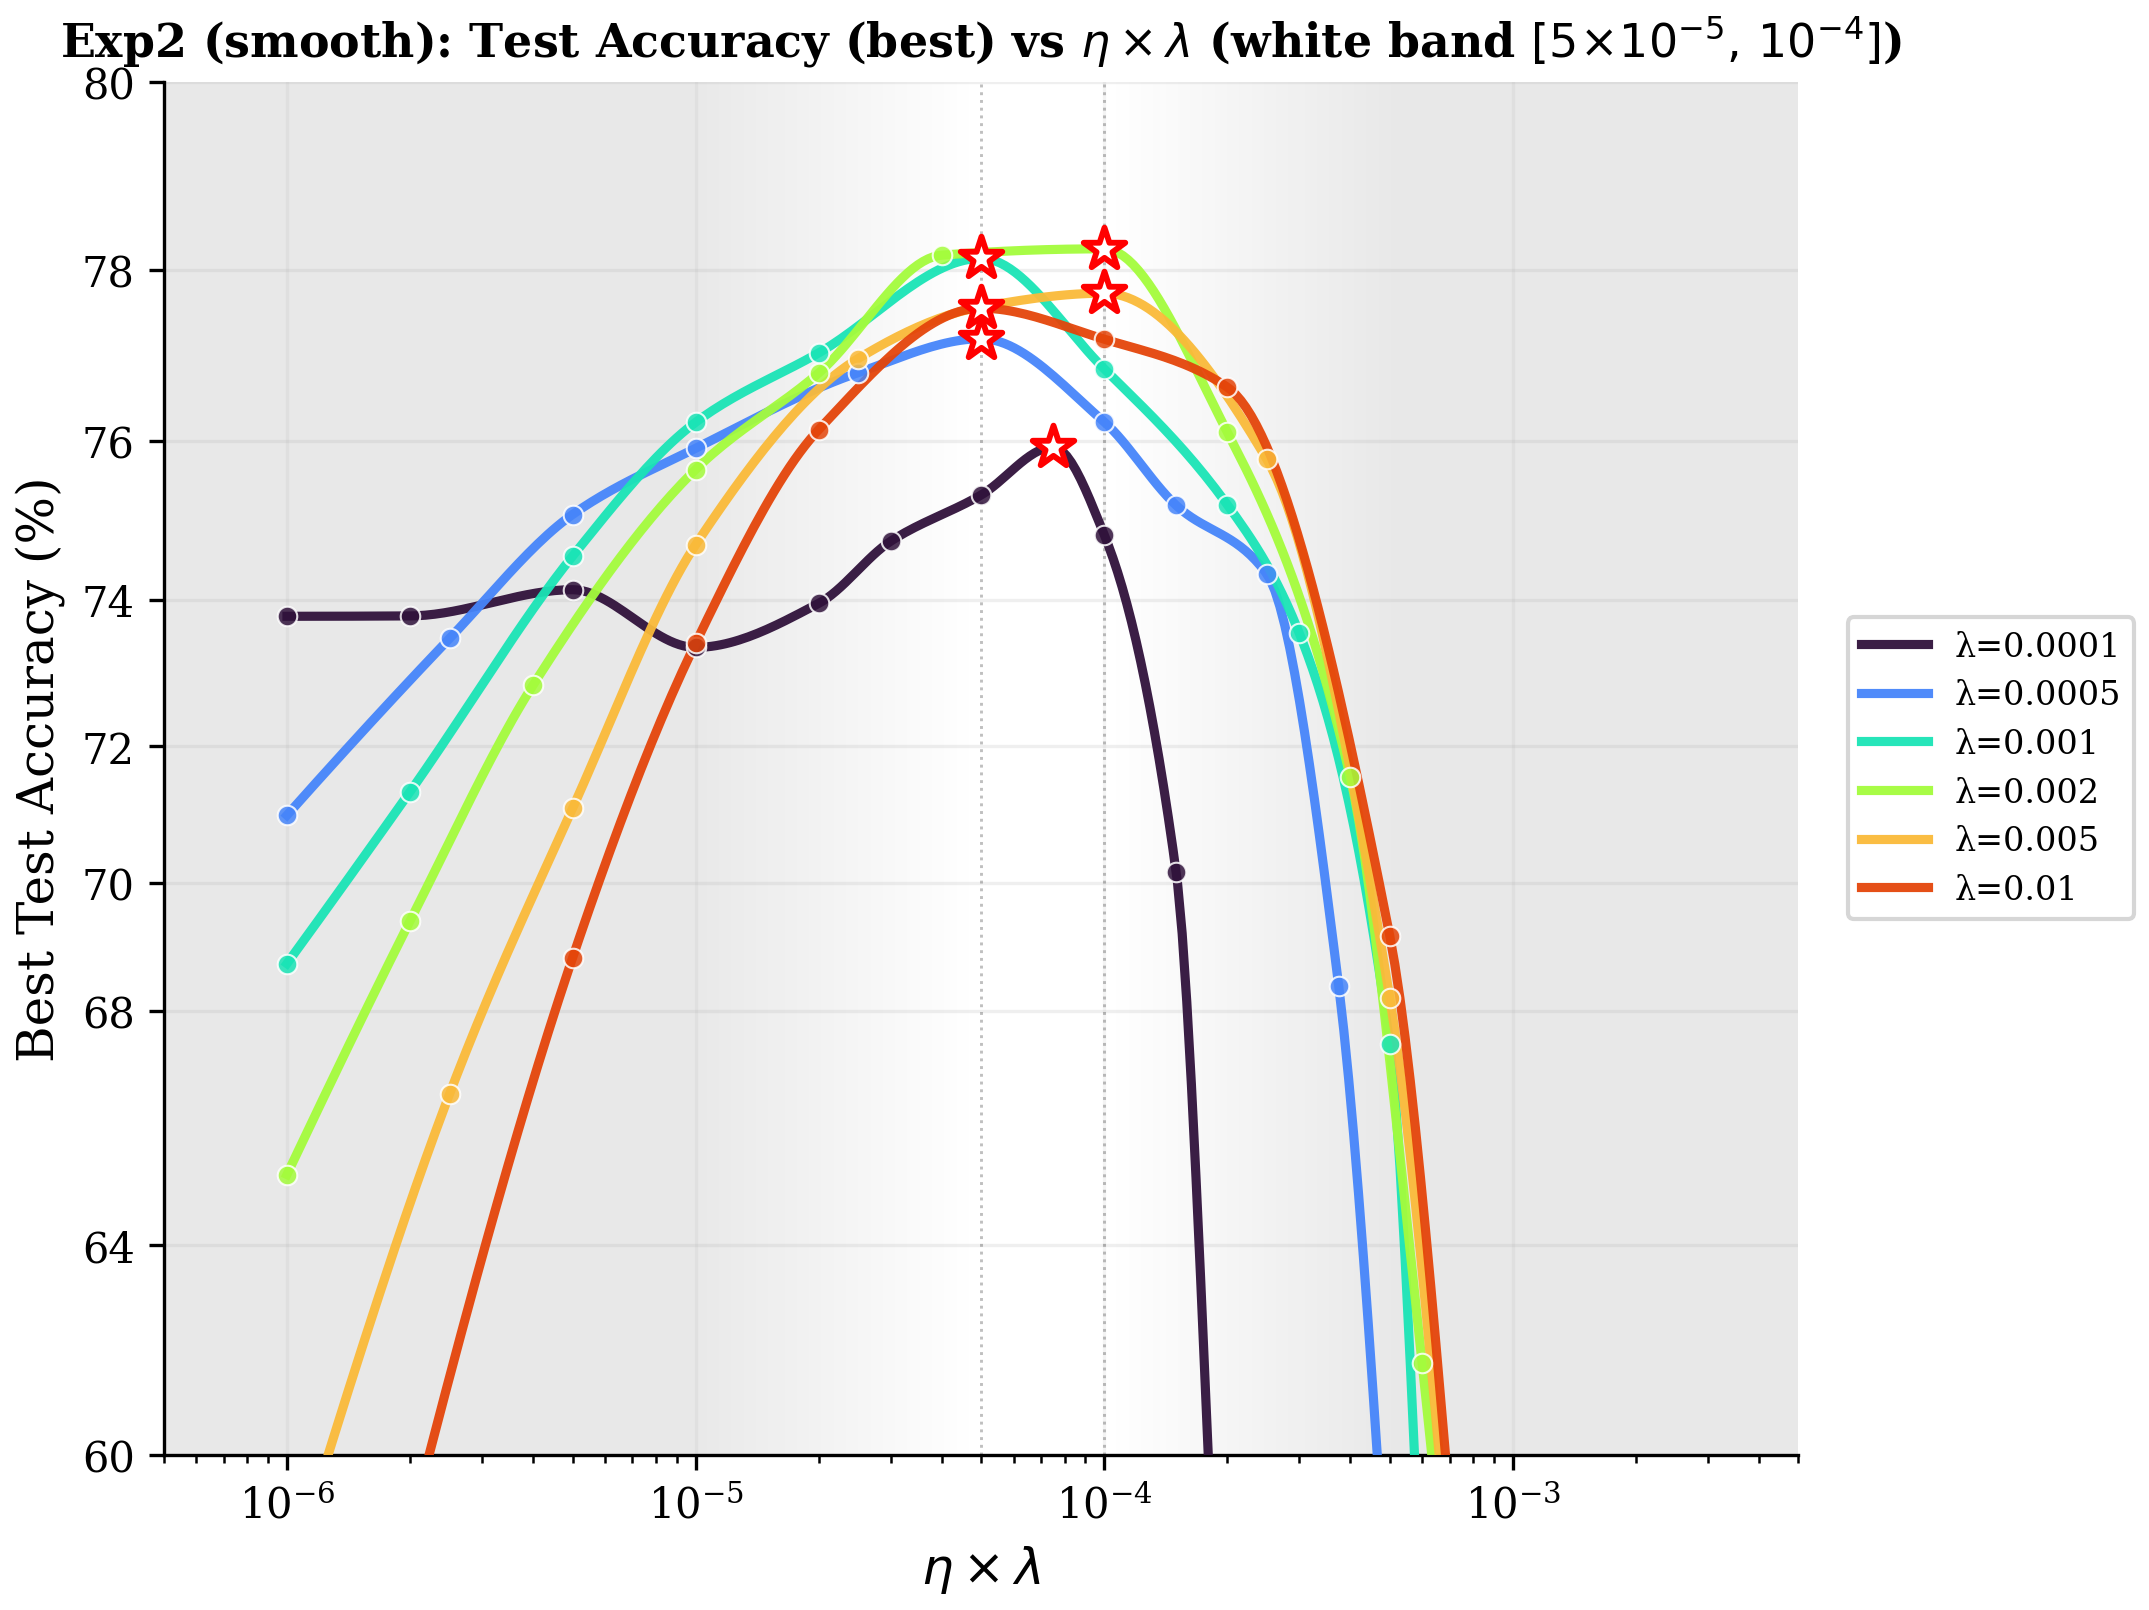
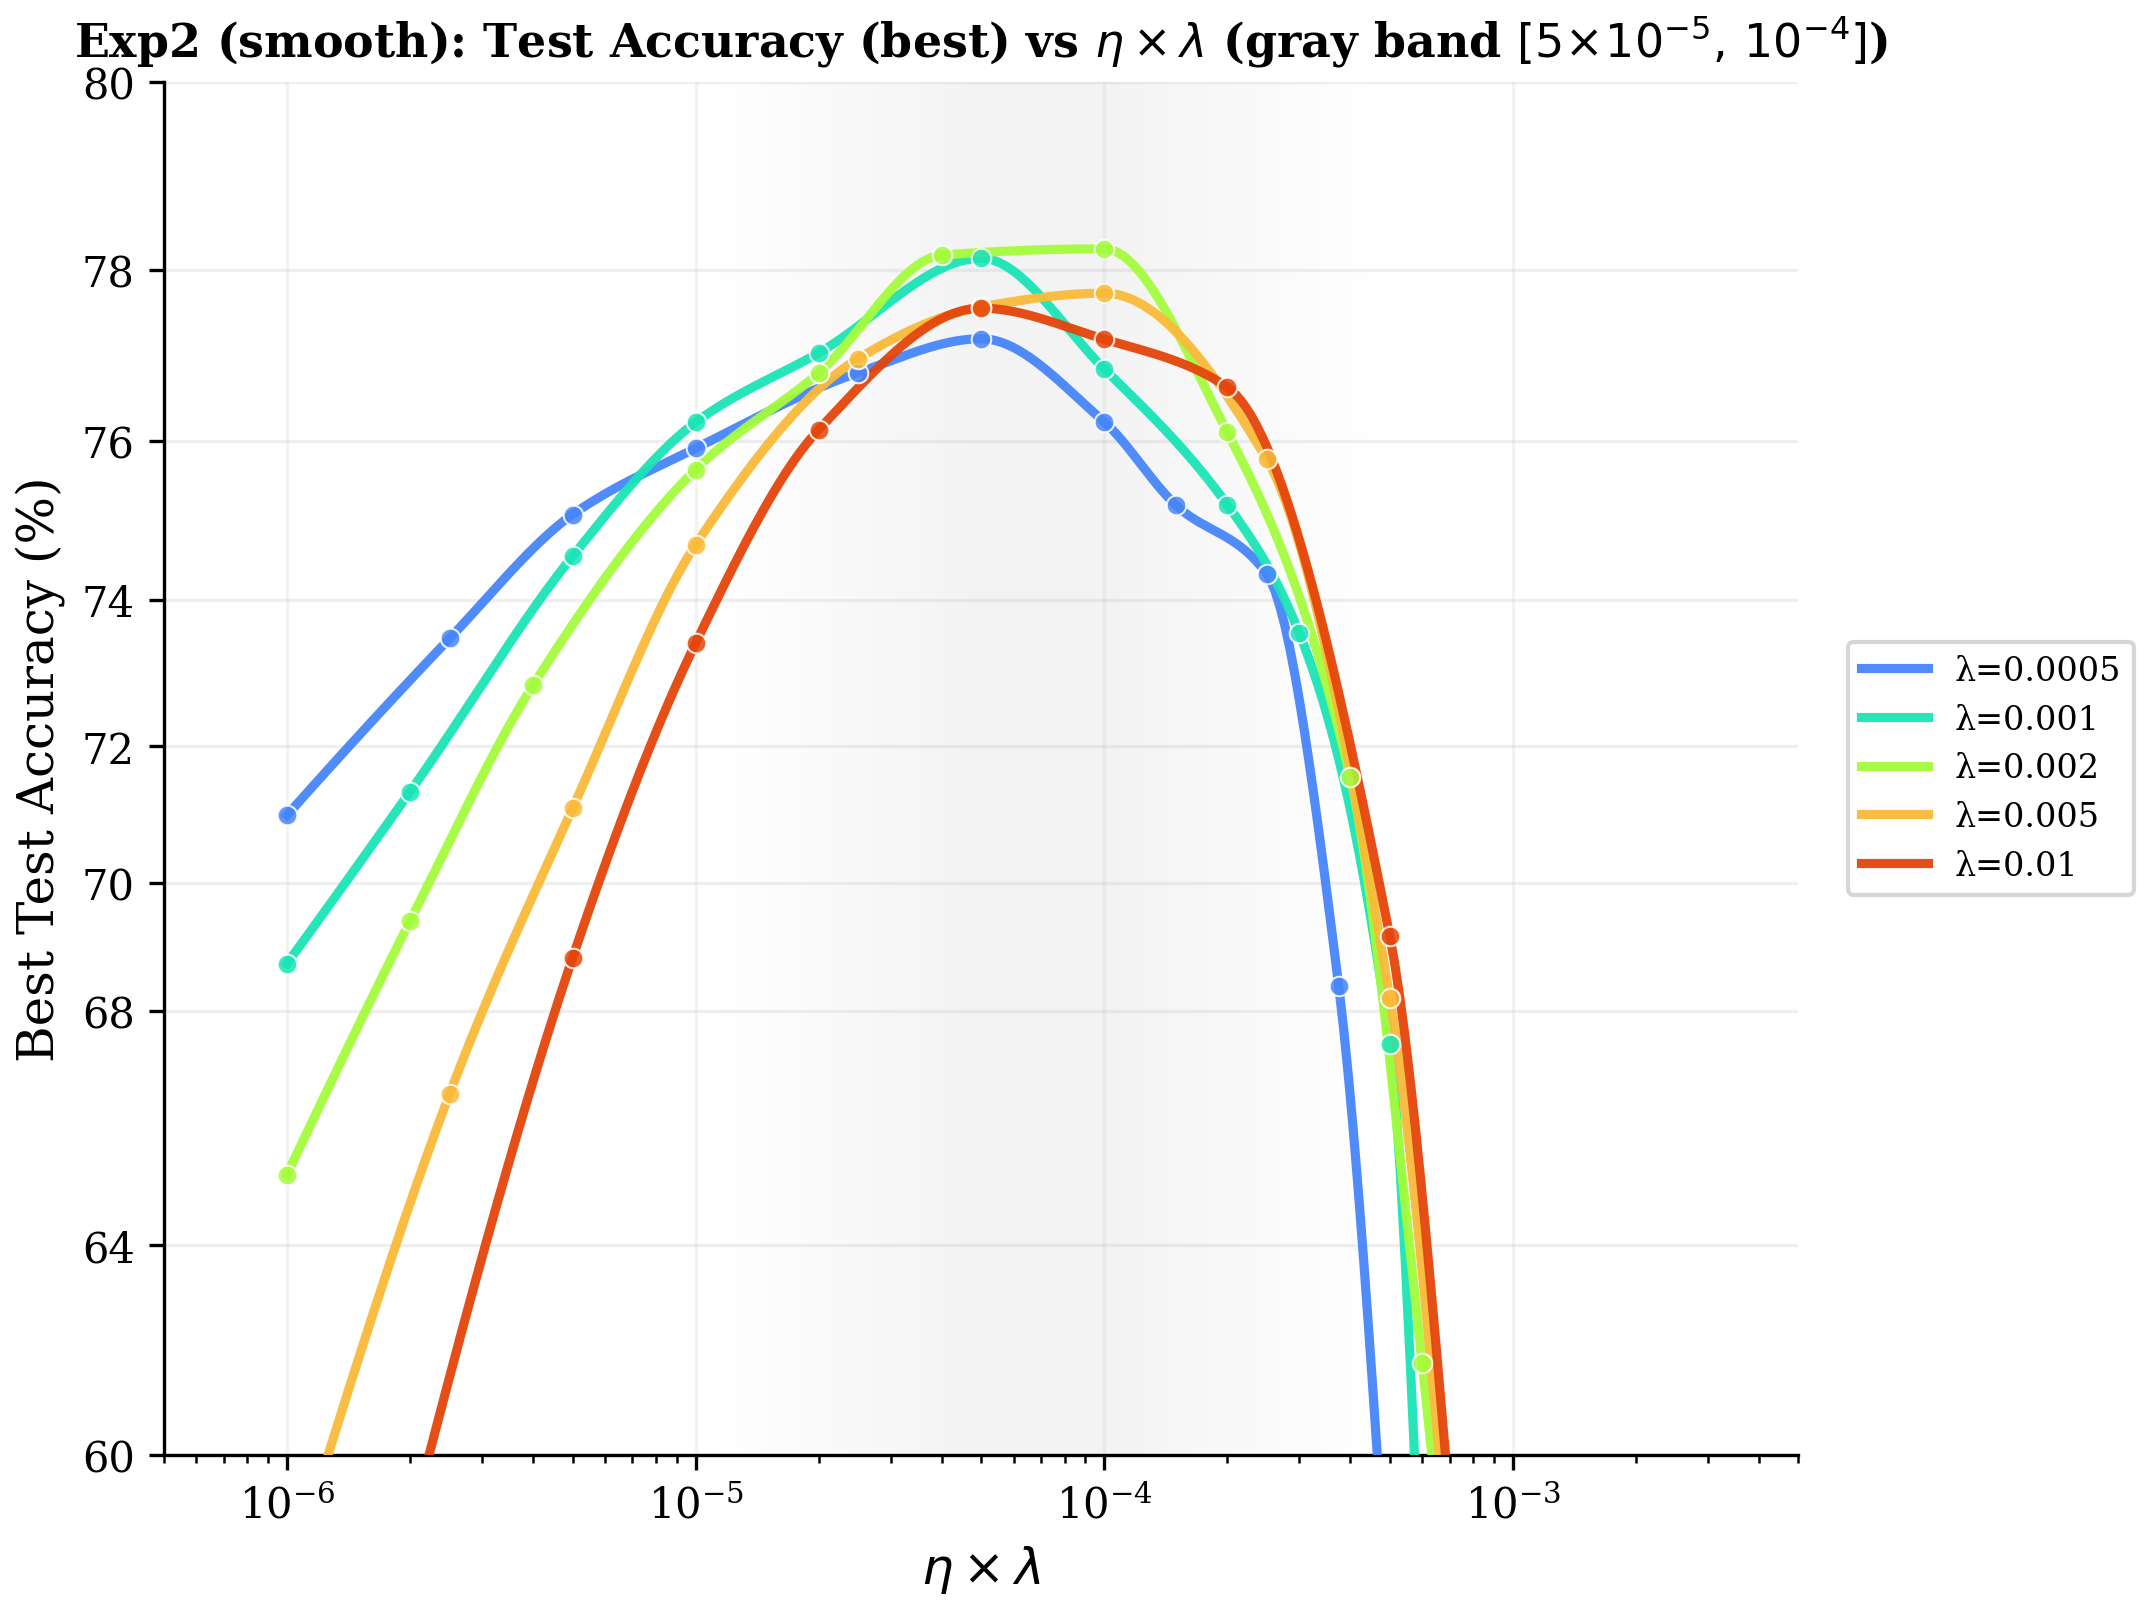
rebuttal: cleaner smoothed best-acc plot (white-gray-white, 5 curves, no stars)
Inverts the gradient background to white-gray-white so the optimum
band is shown as a subtle gray highlight rather than a high-contrast
peak (lighter gray_alpha=0.05). Drops lambda=0.0001 in addition to
lambda=0.05 to keep only the 5 main "well-behaved" curves
(5e-4 ... 1e-2). Removes the per-curve red stars at the maxima for a
cleaner look, exposed via show_stars / band_style kwargs.

diff --git a/rebuttal/generate_figures.py b/rebuttal/generate_figures.py
@@ -461,9 +461,11 @@ def plot_exp2_focused_smooth(ext_dfs,
                              data_lo=1e-6, data_hi=1e-3,
                              view_lo=5e-7, view_hi=5e-3,
                              ylim=(60, 80),
-                             exclude_wds=(5e-2,),
+                             exclude_wds=(5e-2, 1e-4),
                              white_lo=5e-5, white_hi=1e-4,
-                             gray_alpha=0.09, smooth_n=240):
+                             gray_alpha=0.05, smooth_n=240,
+                             band_style='middle_gray',
+                             show_stars=False):
     """Smooth, "publication-style" version of the best-acc focused plot.
 
     - Drops the requested λ values (default: 0.05).
@@ -499,7 +501,10 @@ def plot_exp2_focused_smooth(ext_dfs,
     log_grid = np.linspace(log_lo, log_hi, nx)
     dist = np.maximum(np.abs(log_grid - log_center) - half_white, 0.0)
     intensity = np.clip(1.0 - dist / fade_decade, 0.0, 1.0)
-    gray_strength = (1.0 - intensity) * gray_alpha
+    if band_style == 'middle_gray':
+        gray_strength = intensity * gray_alpha
+    else:
+        gray_strength = (1.0 - intensity) * gray_alpha
     xs_edge = np.power(10.0, np.concatenate([
         log_grid - 0.5 * (log_grid[1] - log_grid[0]),
         log_grid[-1:] + 0.5 * (log_grid[1] - log_grid[0]),
@@ -540,14 +545,11 @@ def plot_exp2_focused_smooth(ext_dfs,
             ax.plot(np.power(10.0, log_x), y,
                     marker='o', color=color, linewidth=1.8, markersize=4.5,
                     label=f'λ={wd:g}', zorder=3)
-        best_row = sub.loc[sub[metric].idxmax()]
-        ax.scatter([float(best_row['eta_lambda'])], [float(best_row[metric])],
-                   s=110, marker='*', facecolors='white', edgecolors='red',
-                   linewidths=1.4, zorder=5)
-
-    # Markers for the white plateau boundaries (very subtle).
-    ax.axvline(white_lo, color='black', linestyle=':', alpha=0.25, linewidth=0.7)
-    ax.axvline(white_hi, color='black', linestyle=':', alpha=0.25, linewidth=0.7)
+        if show_stars:
+            best_row = sub.loc[sub[metric].idxmax()]
+            ax.scatter([float(best_row['eta_lambda'])], [float(best_row[metric])],
+                       s=110, marker='*', facecolors='white', edgecolors='red',
+                       linewidths=1.4, zorder=5)
 
     ax.set_xscale('log')
     ax.set_xlim(view_lo, view_hi)
@@ -568,8 +570,9 @@ def plot_exp2_focused_smooth(ext_dfs,
             return rf'10^{{{int(round(e))}}}'
         m, ex = f'{v:.0e}'.split('e')
         return rf'{int(m)}\!\times\!10^{{{int(ex)}}}'
+    band_label = 'gray band' if band_style == 'middle_gray' else 'white band'
     ax.set_title(rf'Exp2 (smooth): {title_metric} vs $\eta \times \lambda$ '
-                 rf'(white band $[{_fmt_pow10(white_lo)},\,{_fmt_pow10(white_hi)}]$)',
+                 rf'({band_label} $[{_fmt_pow10(white_lo)},\,{_fmt_pow10(white_hi)}]$)',
                  fontsize=11, fontweight='bold')
     ax.grid(True, which='major', axis='y', alpha=0.20)
     ax.grid(True, which='major', axis='x', alpha=0.15)
